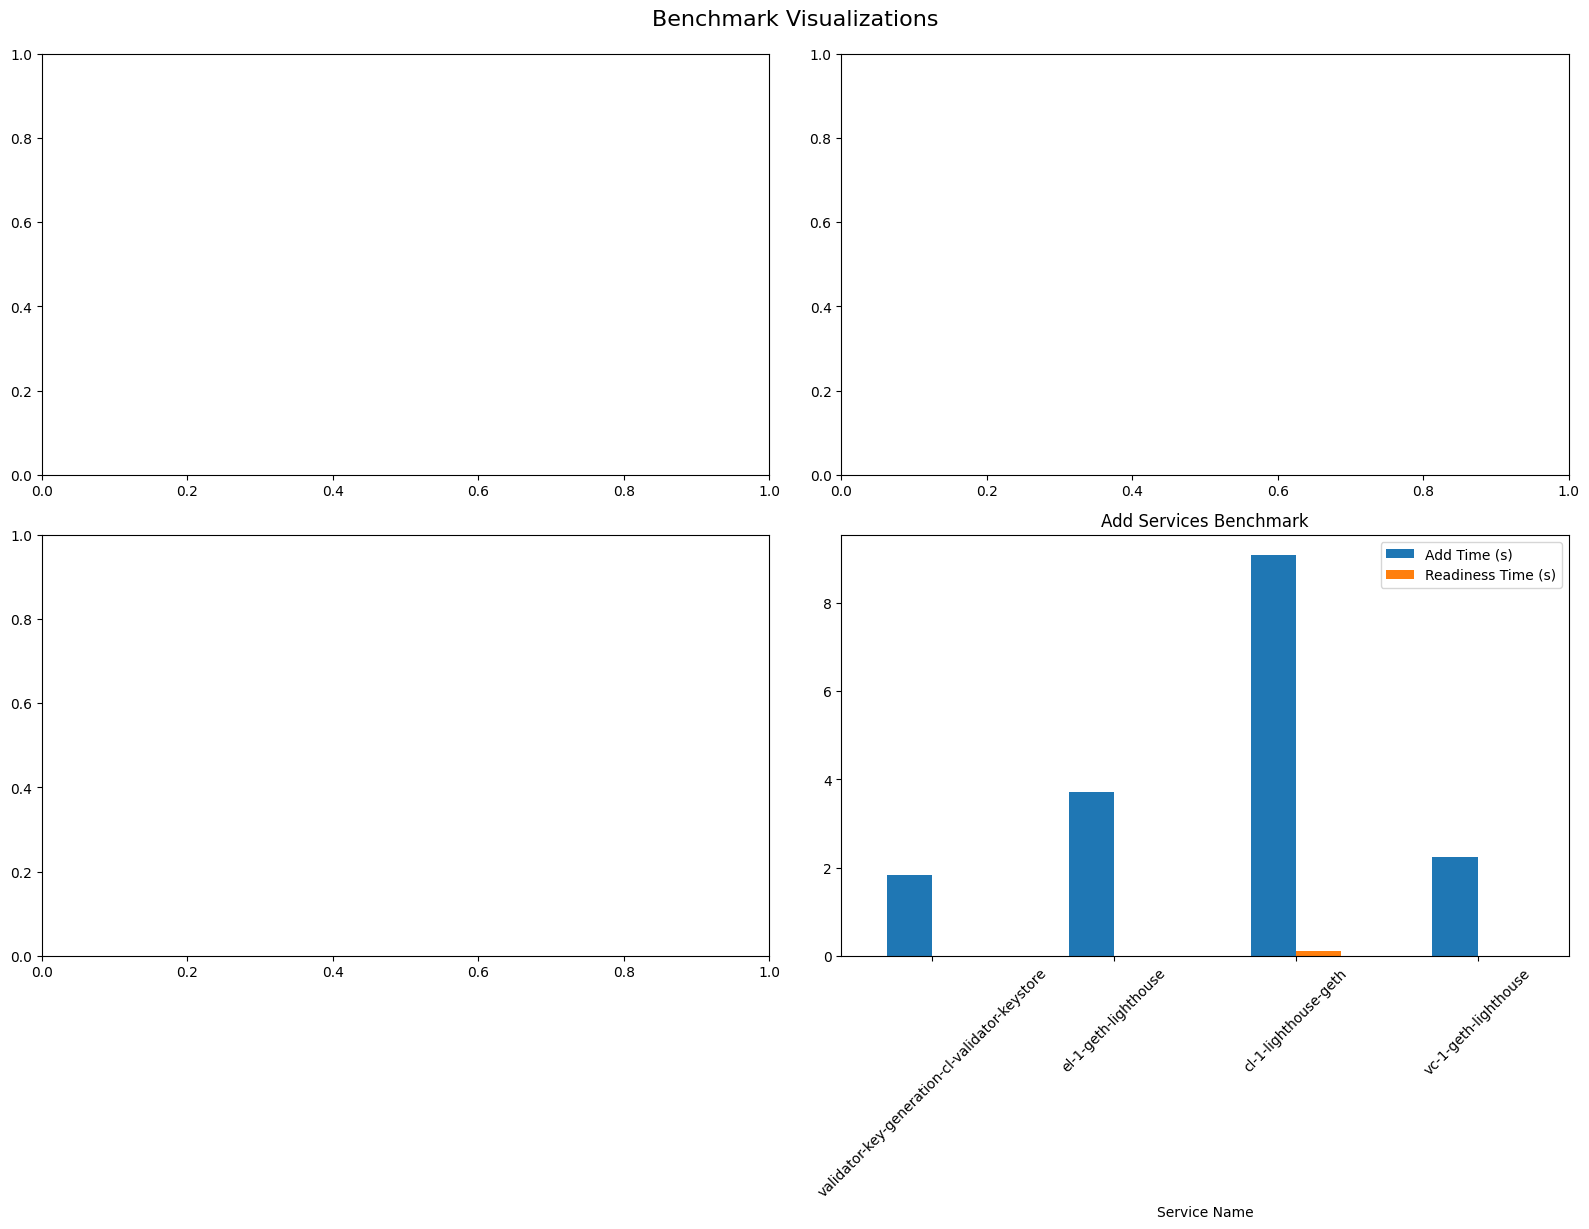
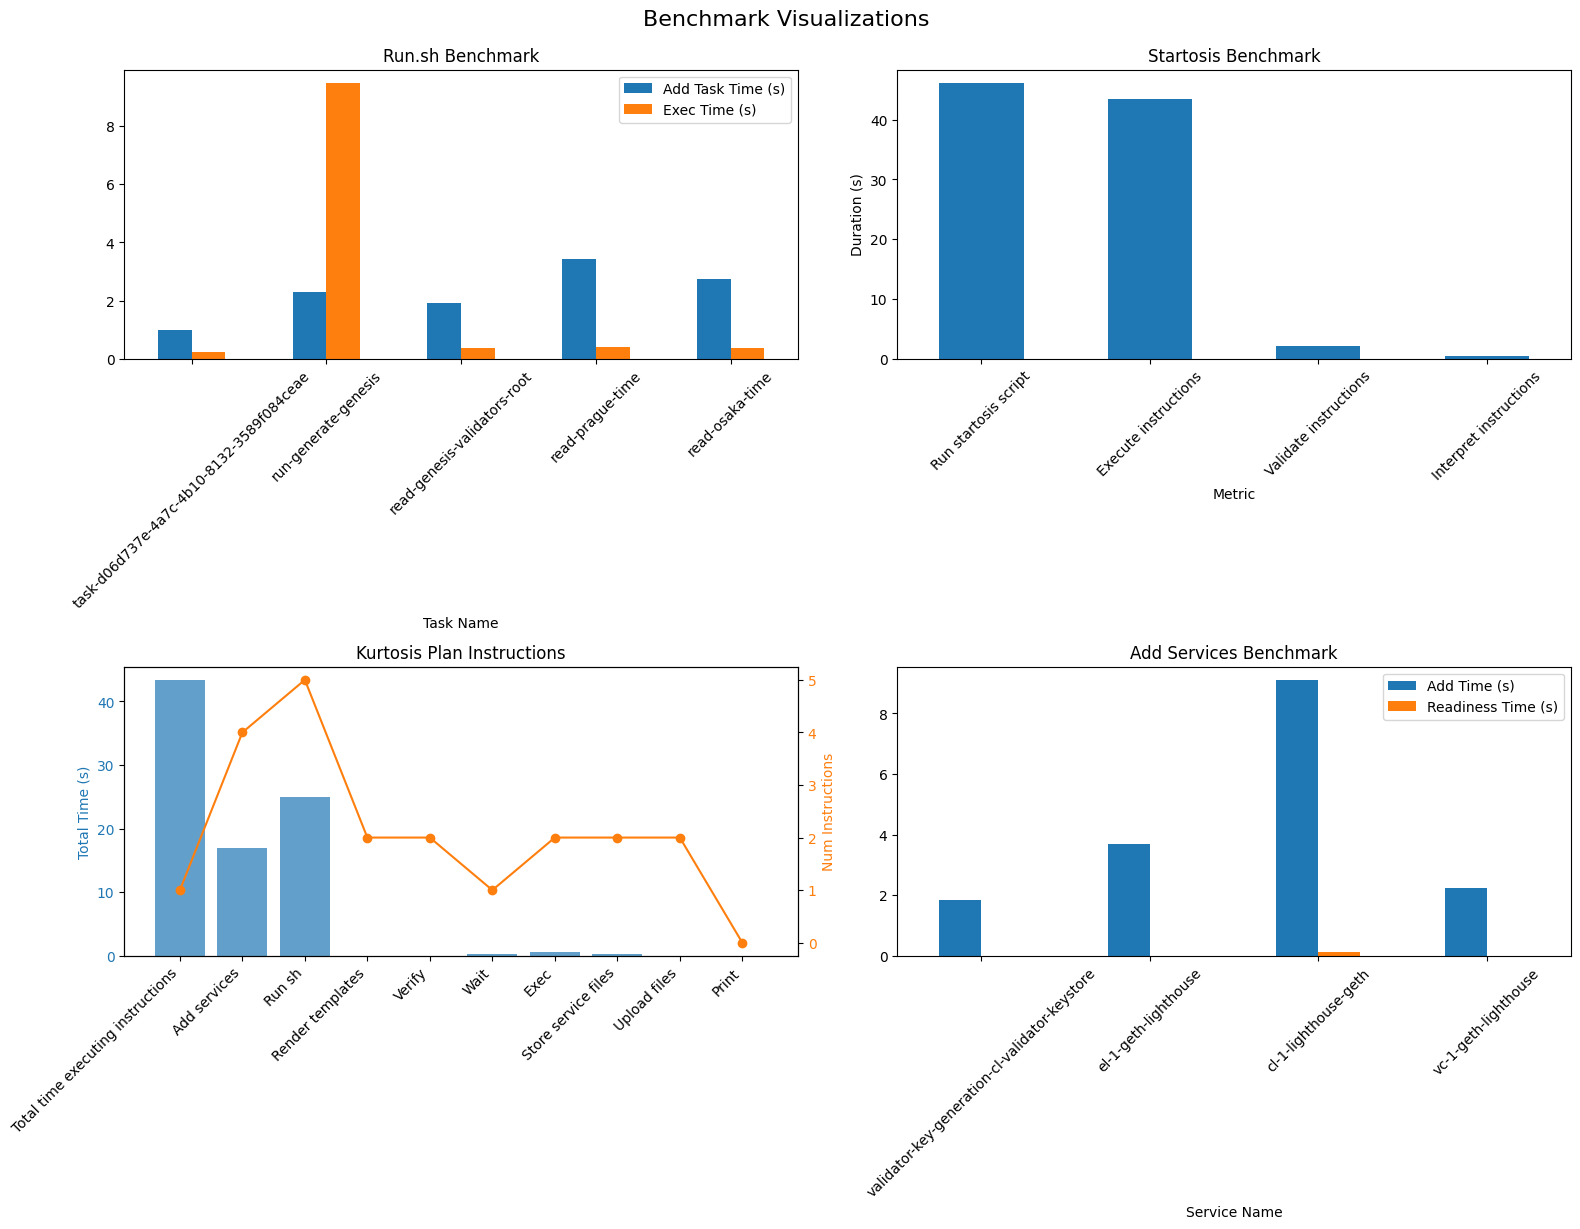
working plots

diff --git a/benchmark/data_viz/benchmark_viz.py b/benchmark/data_viz/benchmark_viz.py
@@ -104,7 +104,6 @@ elif rows == 1:
 elif cols == 1:
     axes = [[ax] for ax in axes]
 
-
 # Draw plots and save individual subplot images
 output_dir = "{0}/visualizations".format(DATA_DIR)
 os.makedirs(output_dir, exist_ok=True)
@@ -112,14 +111,14 @@ os.makedirs(output_dir, exist_ok=True)
 for idx, (title, plot_func) in enumerate(plots):
     r, c = divmod(idx, cols)
     ax = axes[r][c]
-    
-plot_func(ax)
-fig_individual, ax_ind = plt.subplots(figsize=(8, 6))
-plot_func(ax_ind)
-fig_individual.tight_layout()
-fig_individual.savefig(os.path.join(output_dir, f"{title}_plot.png"))
-plt.close(fig_individual)
 
+    plot_func(ax)  # ✅ Move this inside the loop
+
+    fig_individual, ax_ind = plt.subplots(figsize=(8, 6))
+    plot_func(ax_ind)
+    fig_individual.tight_layout()
+    fig_individual.savefig(os.path.join(output_dir, f"{title}_plot.png"))
+    plt.close(fig_individual)
 
 # Hide any unused axes
 for idx in range(num_plots, rows * cols):
@@ -129,3 +128,5 @@ for idx in range(num_plots, rows * cols):
 fig.tight_layout()
 fig.suptitle("Benchmark Visualizations", fontsize=16, y=1.02)
 plt.savefig("benchmark_visualizations_combined.png", bbox_inches="tight")
+
+plt.close(fig)
